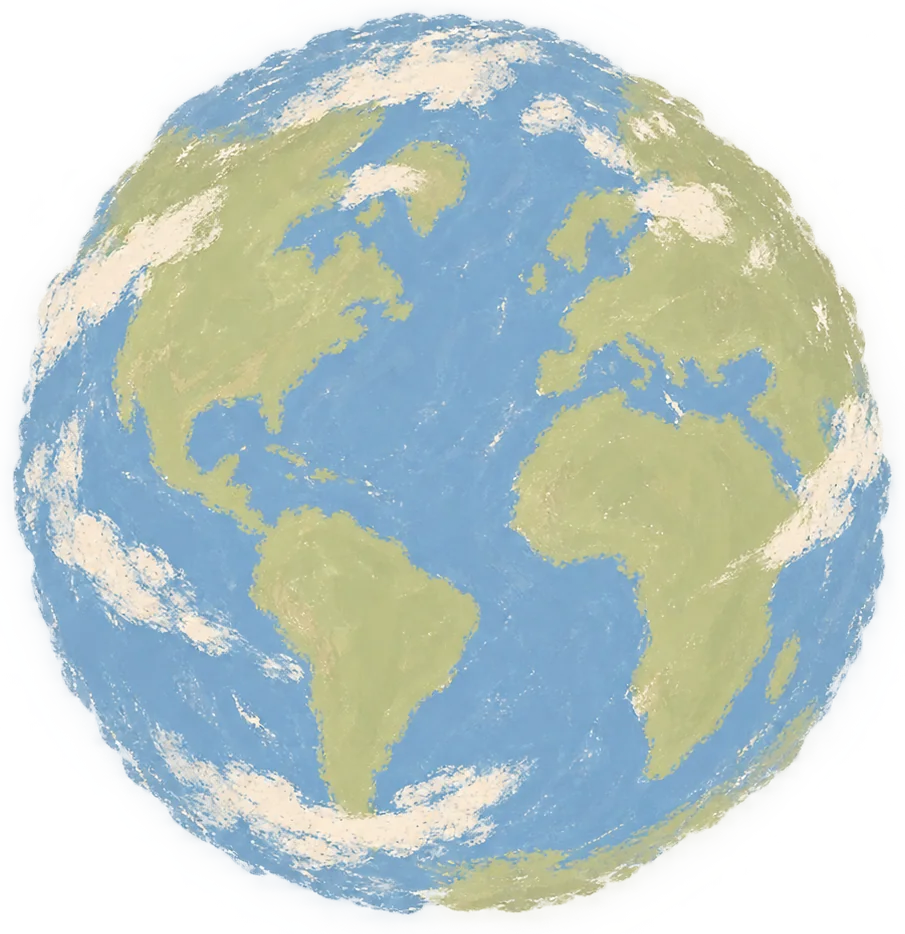
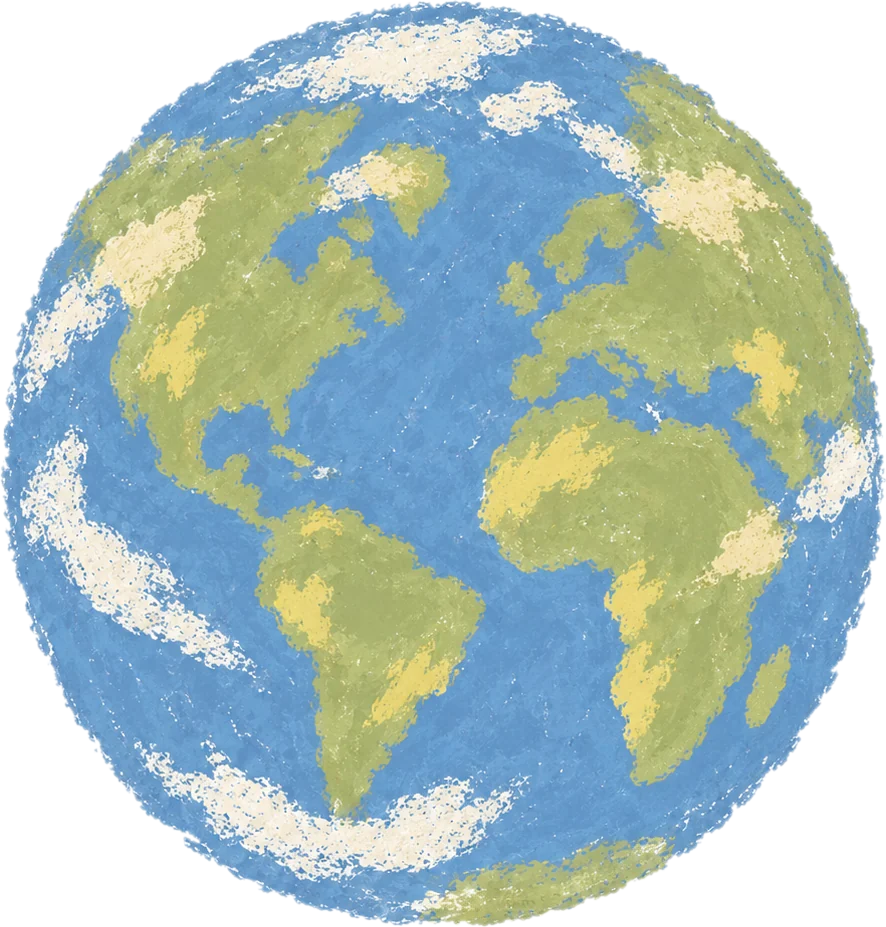
New hand-drawn Earth (background removed) replaces the old one; footer geometry updated; old earth PNG removed

diff --git a/landing/sections/footer.css b/landing/sections/footer.css
@@ -37,7 +37,7 @@
 
 .site-footer__earth {
   /* rotate around the disc centre, not the PNG's centre (PNG has an uneven glow) */
-  transform-origin: 49.2% 47.5%;
+  transform-origin: 50% 47.8%;
   max-width: none; /* wider than the page on purpose (base img rule caps at 100%) */
   /* very, very slow spin (one turn in 6 minutes). Uses the CSS `rotate` property,
      separate from the GSAP parallax transform. */
@@ -283,11 +283,11 @@
     --sy: 5743;
     --sw: 78;
   }
-  /* Earth ×1.36: disc radius 1200, top of the disc at y 5921, centred on x 772 */
+  /* bigger Earth: disc radius 1200, top of the disc at y 5921, centred on x 772 */
   .site-footer .site-footer__earth {
-    left: calc(-491.2 * var(--u));
-    top: calc((5863.5 - var(--top)) * var(--u));
-    width: calc(2567 * var(--u));
+    left: calc(-428 * var(--u));
+    top: calc((5921 - var(--top)) * var(--u));
+    width: calc(2400 * var(--u));
   }
 }
 

diff --git a/landing/index.html b/landing/index.html
@@ -330,8 +330,8 @@
                 </svg>
               </a>
 
-              <!-- Earth: its disc is the circle centre (772, 6928), radius 882 (glow around it is in the PNG) -->
-              <img class="pos site-footer__earth" style="--x: -156.5; --y: 6003.7; --w: 1886.7" src="./brand/pictures/agentcollar-earth.webp" alt="" />
+              <!-- Earth: the image is the disc itself (cut out, no margins): centre (772, 6928), radius 882 -->
+              <img class="pos site-footer__earth" style="--x: -110; --y: 6046; --w: 1764" src="./brand/pictures/agentcollar-earth.webp" alt="" />
             </div>
 
             <!-- Footer line: a small hand-drawn cloud drifting over the Earth -->
